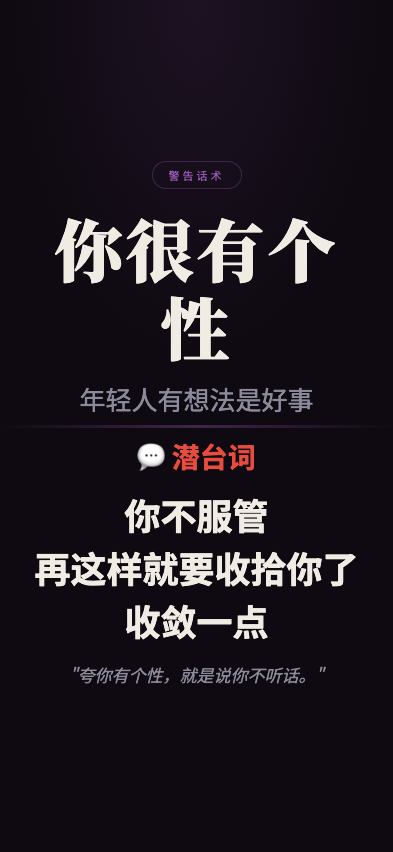
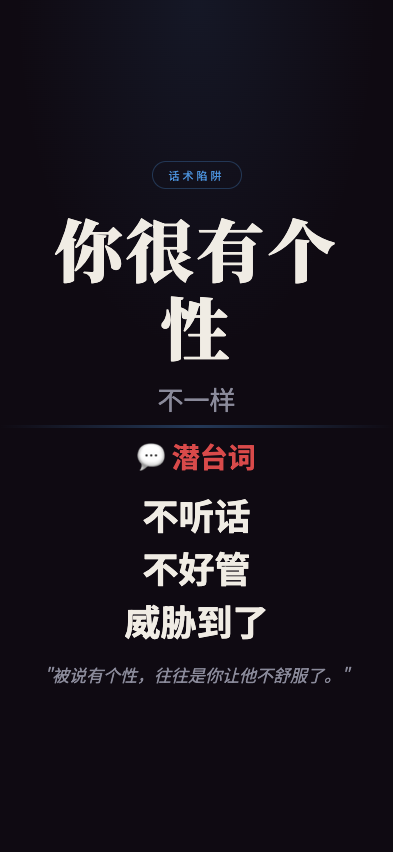
feat: 职场生存法则 screenshot - nihenyougexing

Changed region(s): [[0.0916, 0.5798, 0.916, 0.8239], [0.2137, 0.4577, 0.7939, 0.5188], [0.4275, 0.1831, 0.5802, 0.2136]]

diff --git a/wuliao-tools/tools/biz-speak/scenes/nihenyougexing.html b/wuliao-tools/tools/biz-speak/scenes/nihenyougexing.html
@@ -10,8 +10,8 @@
     --bg: #0f0a12;
     --text: #f0ece4;
     --text-dim: #8a8a9a;
-    --gold: #9b59b6;
-    --red: #e74c3c;
+    --gold: #4a90d9;
+    --red: #d94a4a;
   }
   * { margin:0; padding:0; box-sizing:border-box; }
   html, body { width:100%; height:100%; overflow:hidden; }
@@ -24,11 +24,11 @@
   }
   body::before {
     content:''; position:absolute; top:0; left:0; right:0; height:45%;
-    background:radial-gradient(ellipse at 50% 0%, rgba(155,89,182,0.1) 0%, transparent 65%);
+    background:radial-gradient(ellipse at 50% 0%, rgba(74,144,217,0.1) 0%, transparent 65%);
     pointer-events:none; z-index:0;
   }
   .top { flex:1; display:flex; flex-direction:column; align-items:center; justify-content:flex-end; padding:4px 28px 8px; position:relative; z-index:1; }
-  .tag { font-size:11px; letter-spacing:3px; color:var(--gold); border:1px solid rgba(155,89,182,0.3); padding:5px 16px; border-radius:50px; margin-bottom:20px; }
+  .tag { font-size:11px; letter-spacing:3px; color:var(--gold); border:1px solid rgba(74,144,217,0.3); padding:5px 16px; border-radius:50px; margin-bottom:20px; }
   .main-title { font-family:'Noto Serif SC'; font-size:68px; font-weight:900; text-align:center; line-height:1.15; letter-spacing:3px; min-width:0; overflow-wrap:break-word; max-width:92%; }
   .sub-title { font-size:26px; color:var(--text-dim); text-align:center; margin-top:14px; }
   .divider { width:100%; height:3px; background:linear-gradient(90deg,transparent,var(--gold),transparent); opacity:0.35; flex-shrink:0; position:relative; z-index:1; }
@@ -41,19 +41,19 @@
 </head>
 <body>
   <div class="top">
-    <div class="tag">警告话术</div>
+    <div class="tag">话术陷阱</div>
     <div class="main-title">你很有个性</div>
-    <div class="sub-title">年轻人有想法是好事</div>
+    <div class="sub-title">不一样</div>
   </div>
   <div class="divider"></div>
   <div class="bottom">
     <div class="truth-label">💬 潜台词</div>
     <div class="truth-lines">
-      <div class="truth-line">你不服管</div>
-      <div class="truth-line">再这样就要收拾你了</div>
-      <div class="truth-line">收敛一点</div>
+      <div class="truth-line">不听话</div>
+      <div class="truth-line">不好管</div>
+      <div class="truth-line">威胁到了</div>
     </div>
-    <div class="quote">"夸你有个性，就是说你不听话。"</div>
+    <div class="quote">"被说有个性，往往是你让他不舒服了。"</div>
   </div>
 </body>
 </html>
